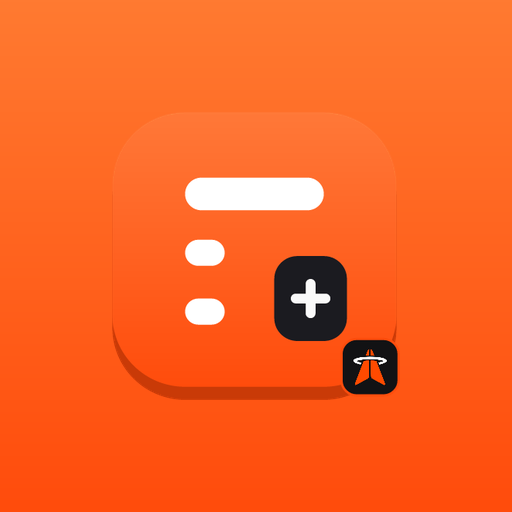
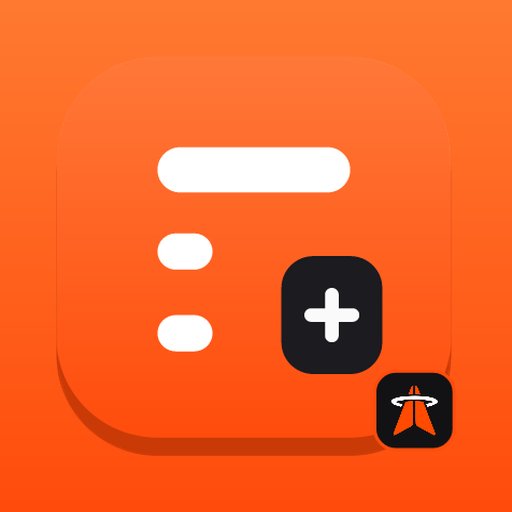
fix: amplia icone da calculadora mantendo padding uniforme

diff --git a/index.html b/index.html
@@ -5,8 +5,8 @@
     <meta name="viewport" content="width=device-width, initial-scale=1.0" />
     <meta name="description" content="Calculadora de preços para Shopee, Mercado Livre, TikTok Shop e Amazon." />
     <link rel="shortcut icon" href="/icone.ico" type="image/x-icon" />
-    <link rel="icon" href="/calculator-icon-192.png?v=3" type="image/png" sizes="192x192" />
-    <link rel="apple-touch-icon" href="/apple-touch-icon.png?v=3" sizes="180x180" />
+    <link rel="icon" href="/calculator-icon-192.png?v=4" type="image/png" sizes="192x192" />
+    <link rel="apple-touch-icon" href="/apple-touch-icon.png?v=4" sizes="180x180" />
     <link rel="manifest" href="/manifest.webmanifest" />
     <meta name="theme-color" content="#ff4c0c" />
     <meta name="mobile-web-app-capable" content="yes" />
